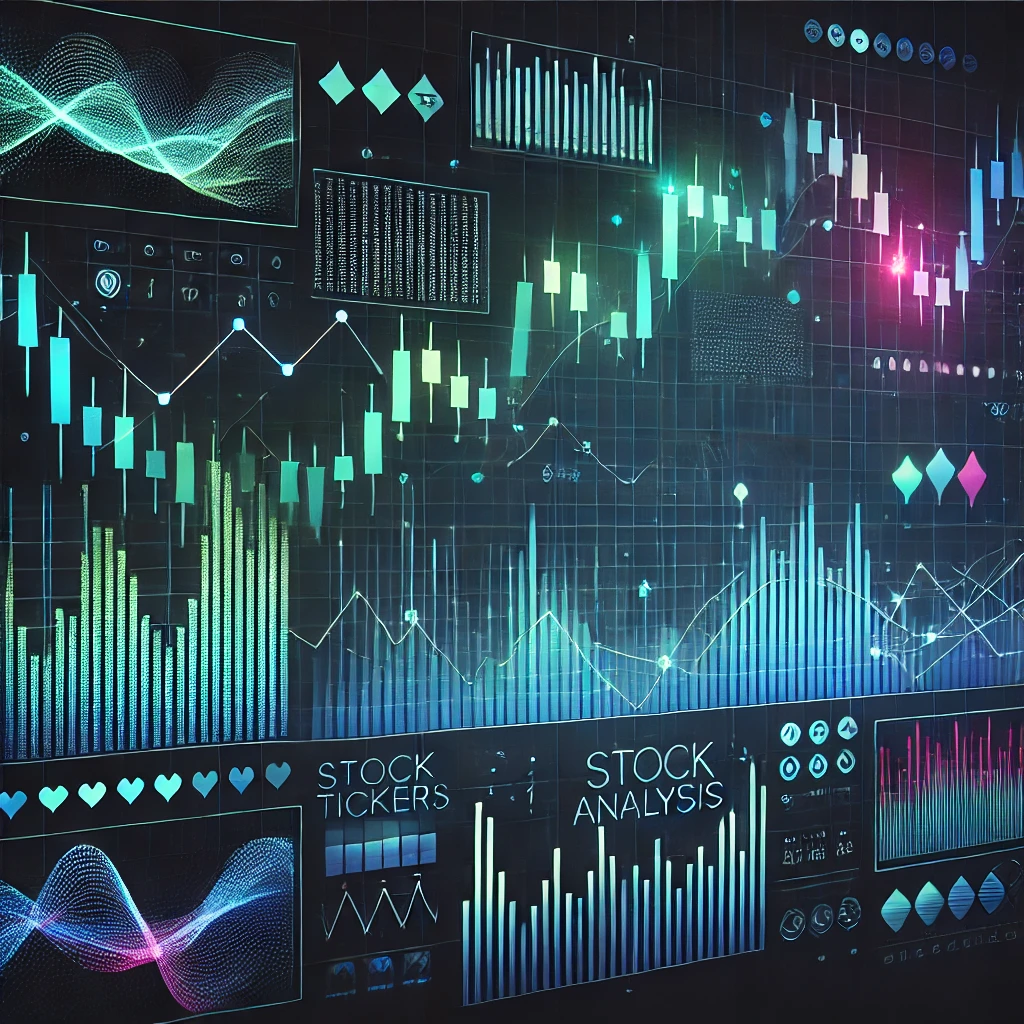
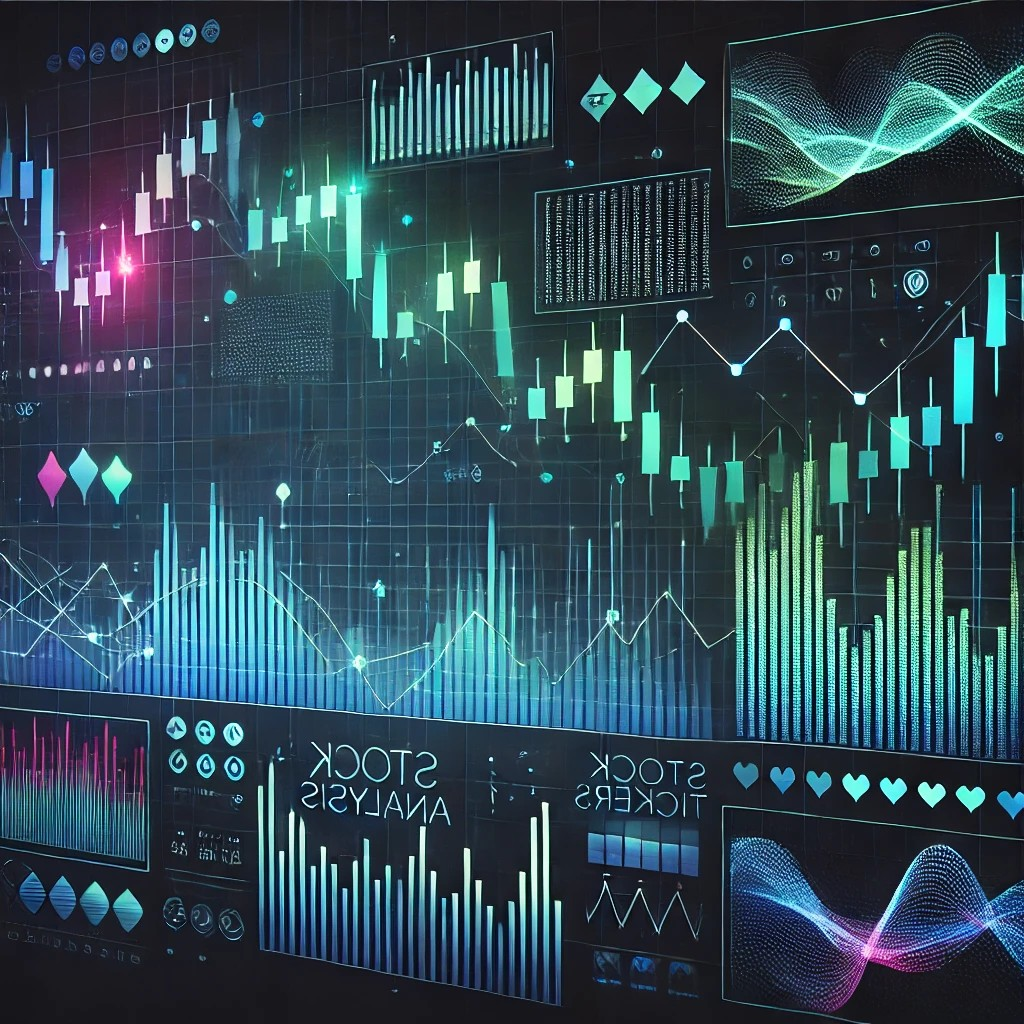
add image in homepage

diff --git a/frontend/src/views/HomePage.vue b/frontend/src/views/HomePage.vue
@@ -1,7 +1,10 @@
 <template>
     <div class="home-page">
-        <div class="home-title">預判市場走勢，領先一步看見市場變化</div>
-        <div class="start-button" @click="toLogin">開始分析</div>
+        <div class="main-info">
+            <div class="home-title">預判市場走勢，領先一步看見市場變化</div>
+            <div class="start-button" @click="toLogin">開始分析</div>
+        </div>
+        <div class="home-image"></div>
     </div>
         <div class="function-flame">
             <div class="function-descript">
@@ -38,16 +41,20 @@
 <style scoped>
     .home-page {
         padding: 30px;
-        max-width: 1200px;
+        max-width: 1300px;
         margin: 0 auto;
+        display: flex;
+        justify-content: center;
+        height: 100vh;
+    }
+    .main-info{
+        padding-top: 100px;
         display: flex;
         flex-direction: column;
         justify-content: center;
-        padding-top: 100px;
-        height: 100vh;
     }
     .home-title{
-        width: 80%;
+        width: 100%;
         color: white;
         font-size: 40px;
         font-weight: bold;
@@ -64,12 +71,23 @@
         border-radius: 8px;
         background-color: #5b5b5b;
         cursor: pointer;
-        transition: background-color 0.3s;
+        transition: all 0.3s ease;
         position: relative;
         top: -100px;
     }
     .start-button:hover{
         background-color: #66b3ff;
+        box-shadow: 0 4px 8px rgba(0, 0, 0, 0.15);
+        transform: translateY(-2px);
+    }
+    .home-image{
+        background-image: url("@/assets/photos/stock_analysis_bg.JPG");
+        background-size: cover;
+        width: 40%;
+        height: 80%;
+        border-radius: 10px 150px;
+        margin-left: 30px;
+        box-shadow: 8px 8px 8px #5B5B5B;
     }
     .function-flame{
         display: grid;
@@ -111,6 +129,9 @@
     }
 
     @media (max-width: 850px){
+        .home-image{
+            display: none;
+        }
         .function-flame{
             grid-template-columns: 80%;
             height: 150vh;
